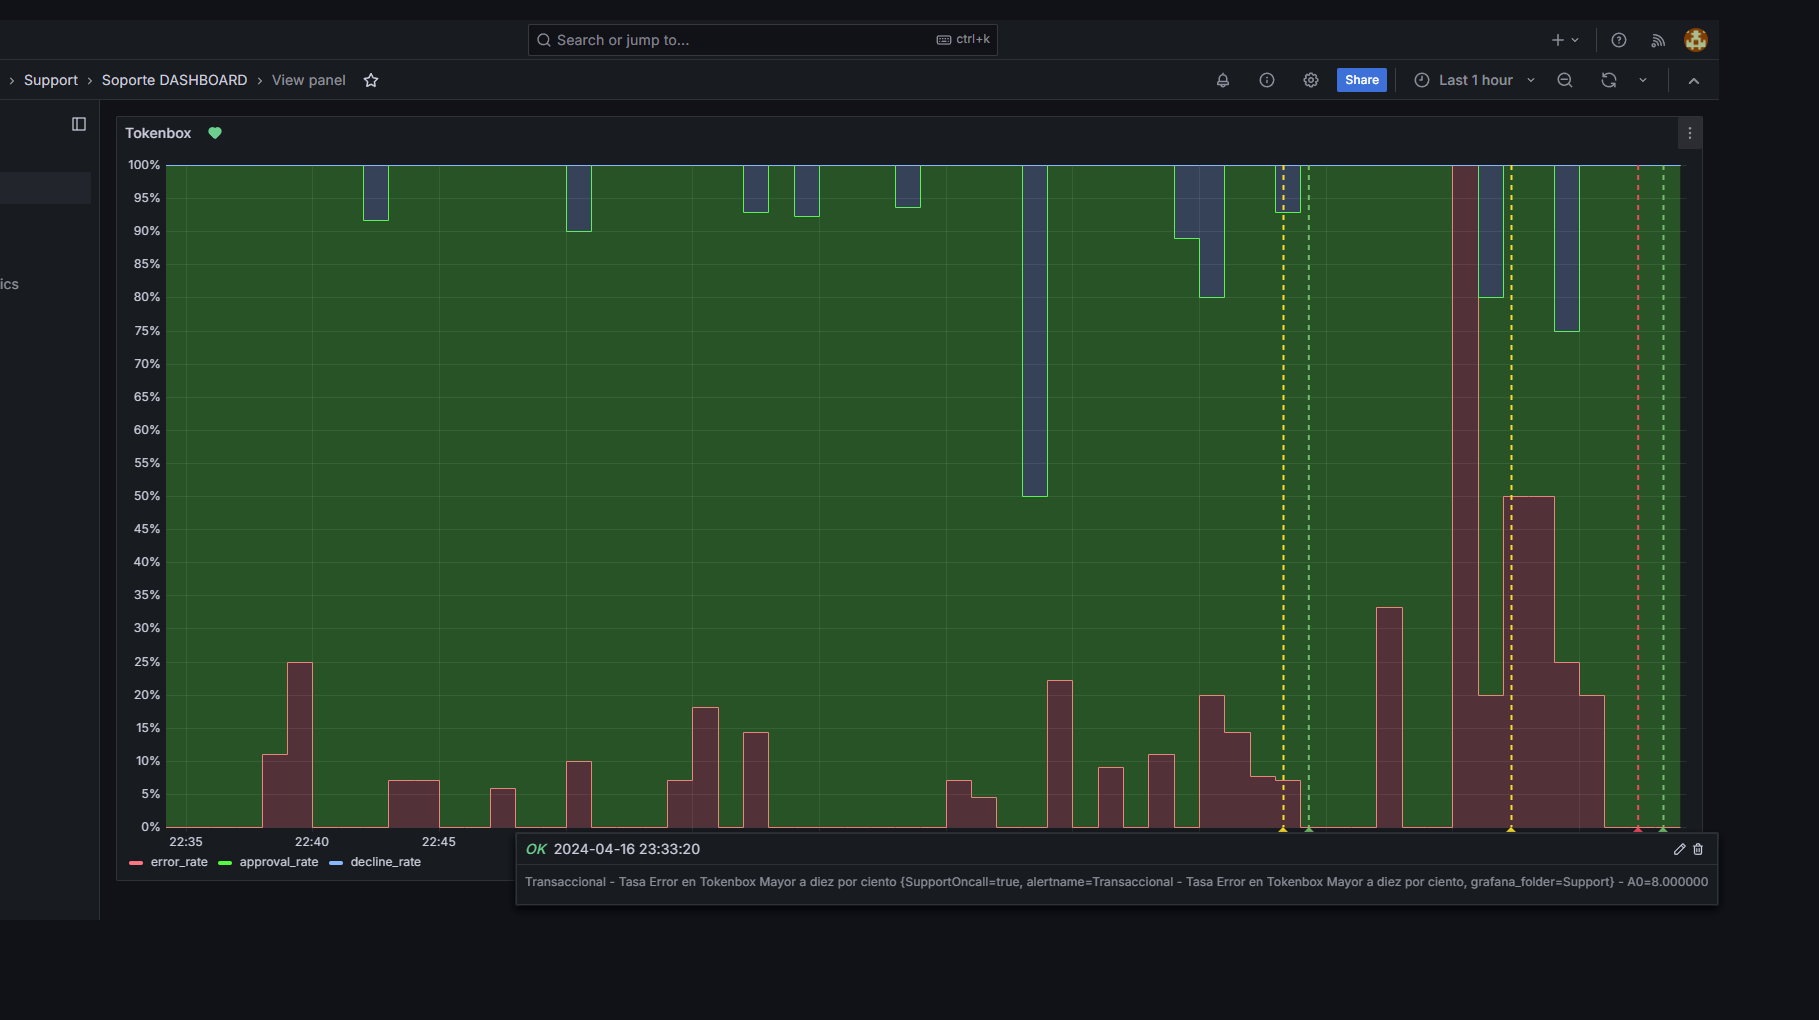
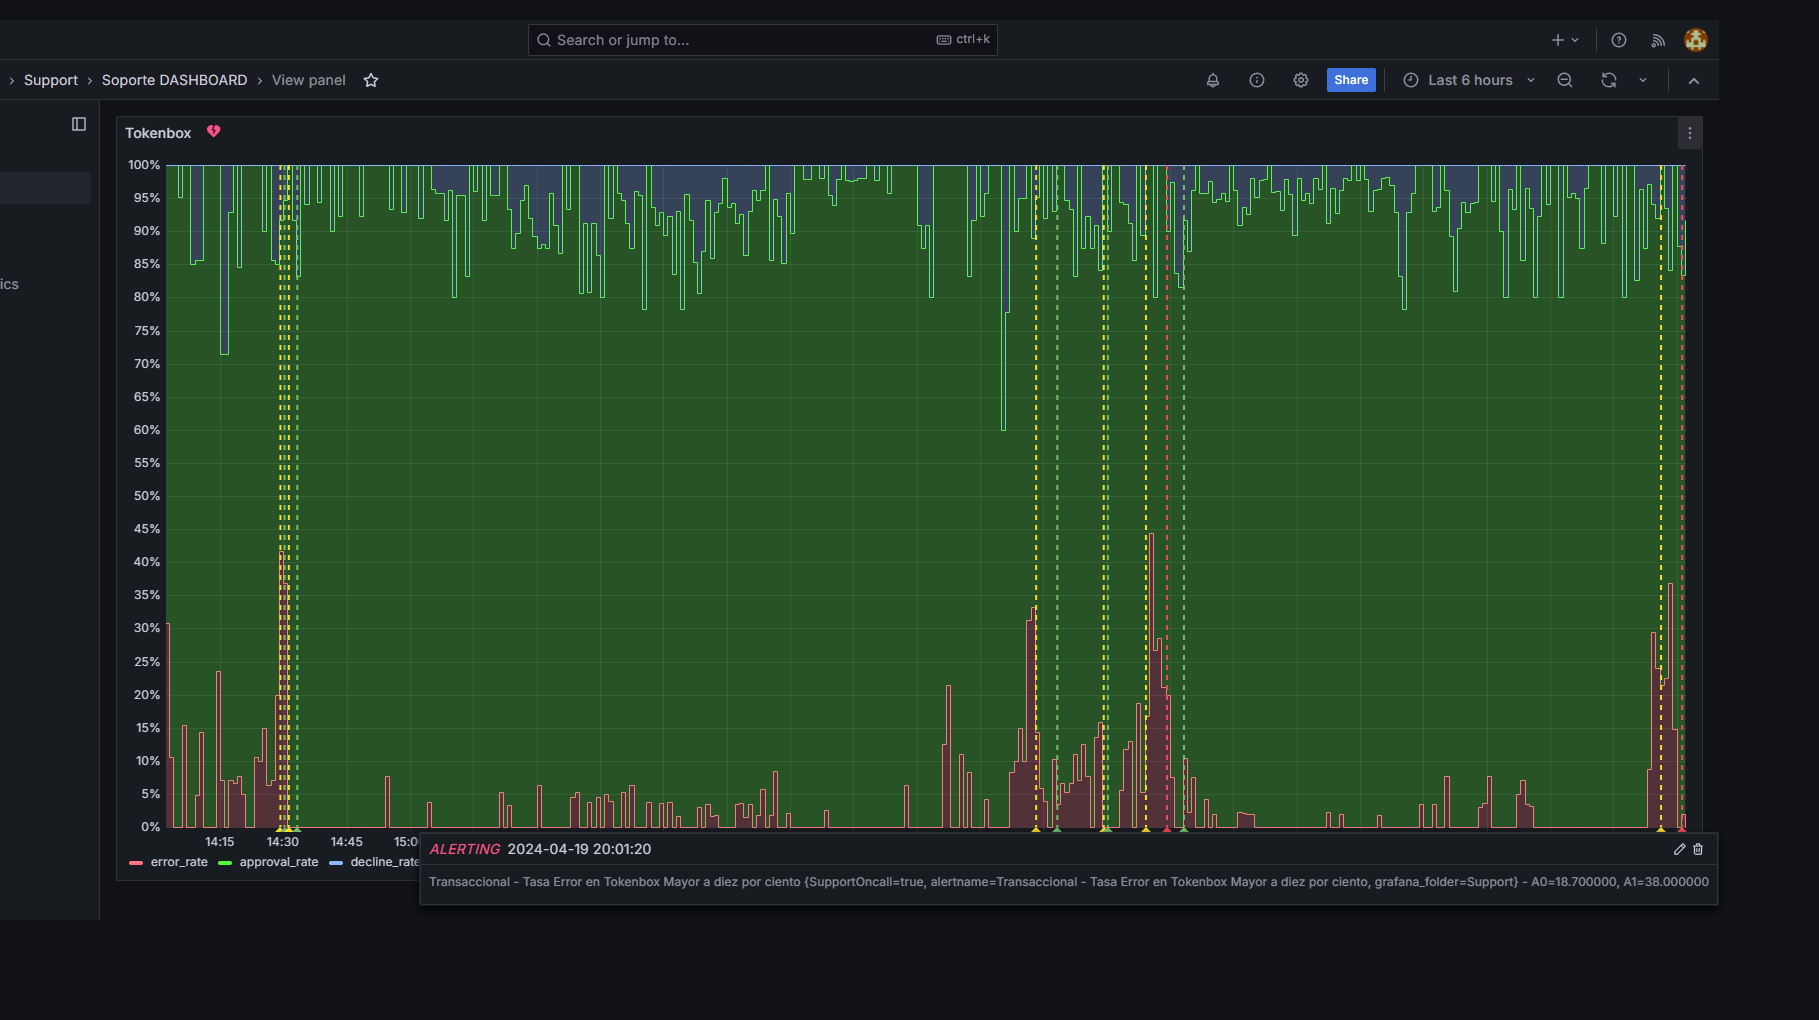
feat: wifi detector

Changed region(s): [[0.0924, 0.152, 0.9544, 0.8206], [0.0924, 0.4559, 0.9236, 0.8814], [0.6465, 0.0608, 0.8312, 0.0912]]

diff --git a/src/helpers/wifi.helpers.ts b/src/helpers/wifi.helpers.ts
@@ -1,0 +1,26 @@
+import wifi from 'node-wifi'
+
+// Función para verificar la conexión WiFi
+export async function checkWiFiConnection (): Promise<boolean> {
+  try {
+    wifi.init({
+      iface: null // usa la interfaz predeterminada
+    })
+    // Obtener las redes WiFi disponibles
+    const networks: any = await wifi.scan()
+
+    // Verificar si hay alguna red conectada
+    const connectedNetwork: any = networks.find((network: any) => network.ssid)
+
+    if (connectedNetwork !== null) {
+      console.log(`El servidor está conectado a la red WiFi "${connectedNetwork?.ssid}".`)
+      return true
+    } else {
+      console.log('El servidor no está conectado a ninguna red WiFi.')
+      return false
+    }
+  } catch (error) {
+    console.error('Error al verificar la conexión WiFi:', error)
+    return false
+  }
+}

diff --git a/src/index.ts b/src/index.ts
@@ -3,6 +3,7 @@
 import { Dashboard, GrafanaLogin } from './sites'
 import { GrafanaScrapingGraphics } from './sites/grafana/graphics'
 import { GRAPHICS } from './helpers/graphics'
+import { checkWiFiConnection } from './helpers/wifi.helpers'
 import cron from 'node-cron'
 
 void (async () => {
@@ -31,8 +32,13 @@ void (async () => {
     }
   }
 
-  // Ejecutar la función cada 10 minutos
-  cron.schedule('*/2 * * * *', async () => {
-    await runScraping()
-  })
+  // verify wifi
+  const connectWifi: boolean = await checkWiFiConnection()
+
+  if (connectWifi) {
+    // Ejecutar la función cada 10 minutos
+    cron.schedule('*/2 * * * *', async () => {
+      await runScraping()
+    })
+  }
 })()

diff --git a/src/sites/grafana/helpers/index.ts b/src/sites/grafana/helpers/index.ts
@@ -28,7 +28,7 @@ export async function performPanelActions (page: Page): Promise<void> {
   await page.waitForSelector('.css-8tk2dk-input-input')
 
   // Escribe "1 hour" en el campo de entrada
-  const timeQuery = '1 hour'
+  const timeQuery = '6'
   await page.type('.css-8tk2dk-input-input', timeQuery)
 
   await page.waitForSelector('.css-13htr8w')
